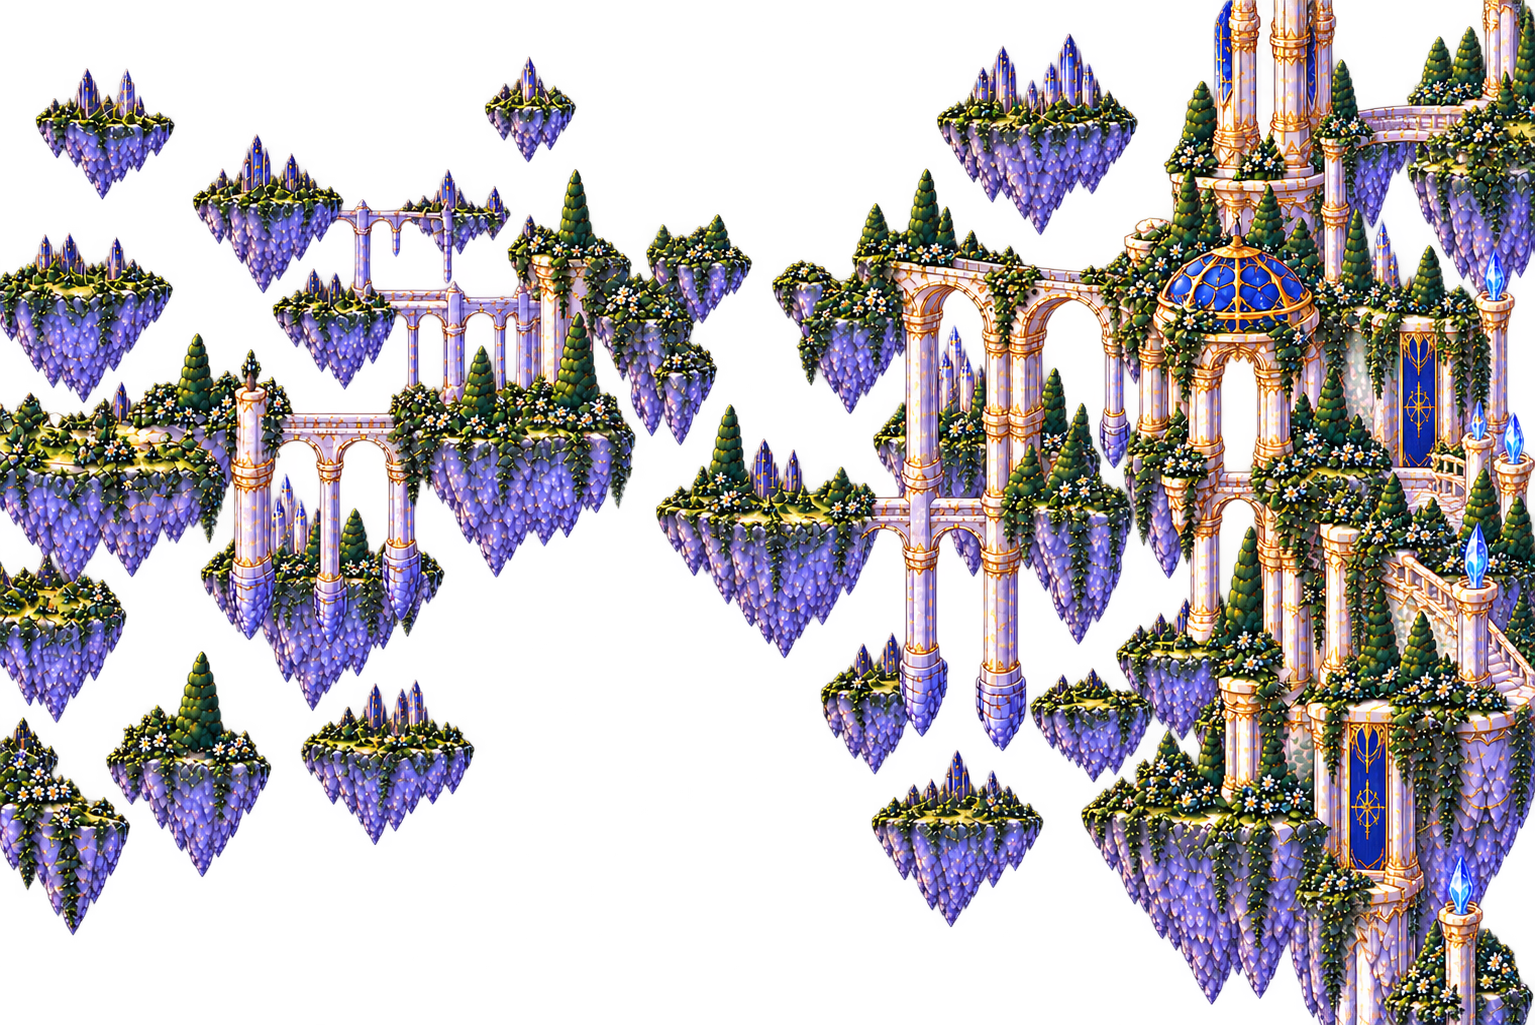
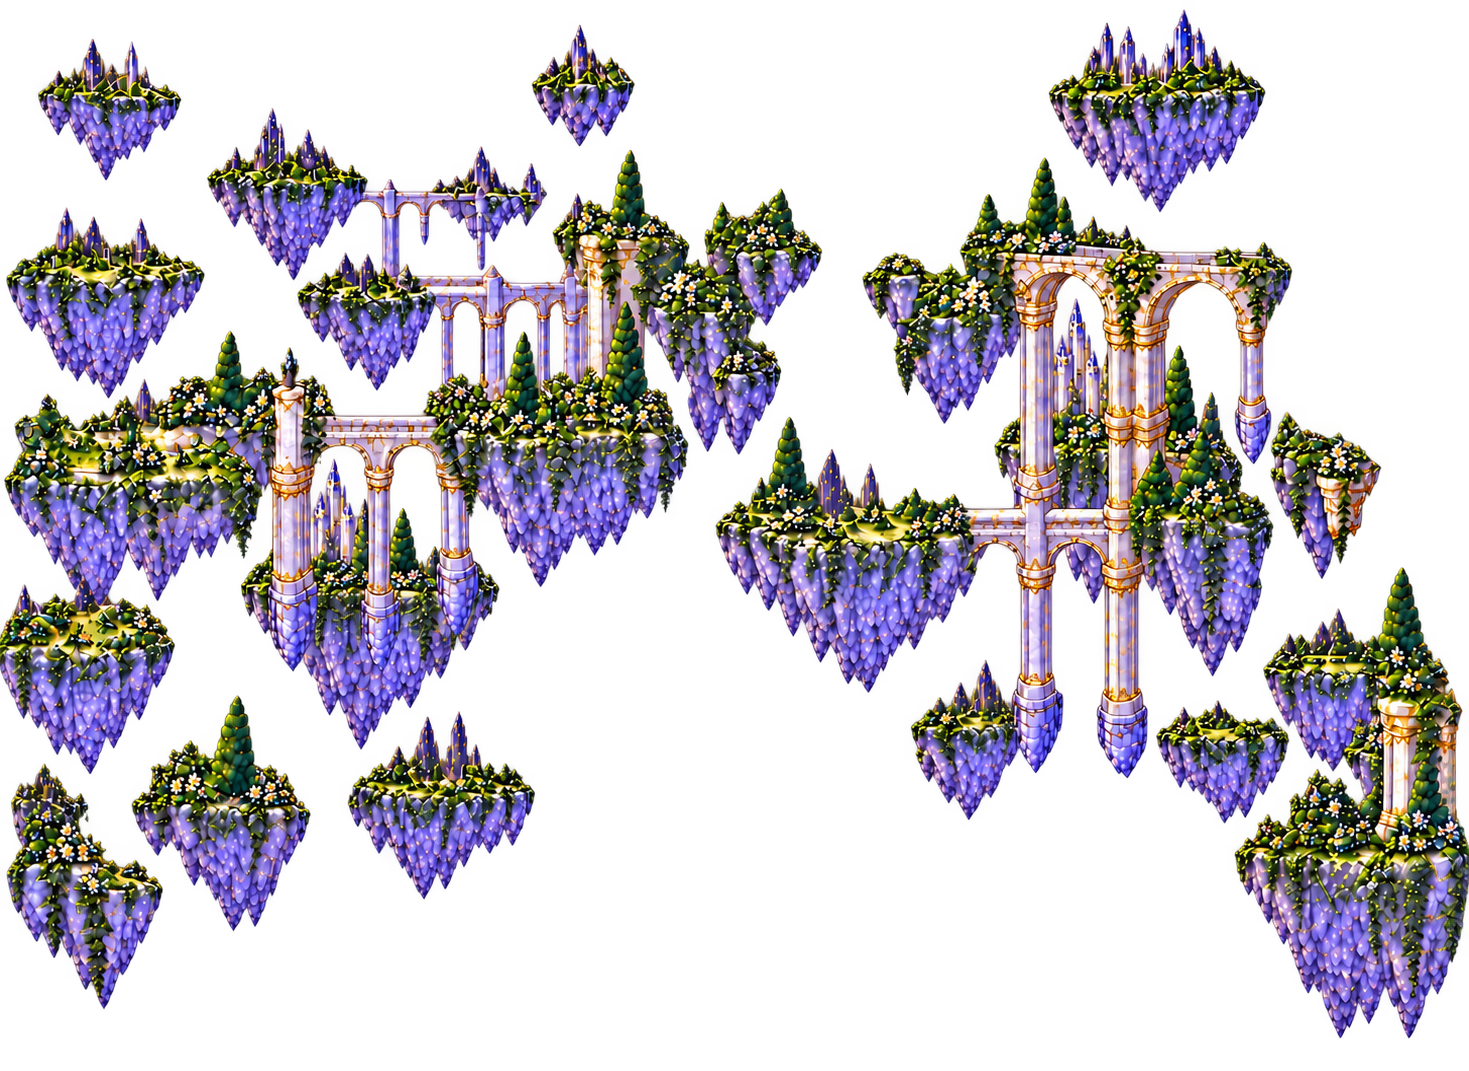
fix: align latest gate garden artwork

diff --git a/scene-preview41-fix.js b/scene-preview41-fix.js
@@ -3,27 +3,44 @@
   const layout = root.TarotSceneLayout;
   if (!layout) return;
 
-  // Preview 54 debug isolation: temporarily hide the legacy Gate Garden
-  // ground/foreground plates so the newly uploaded world-islands artwork can
-  // be checked by itself. This is intentionally temporary and does not delete
-  // any assets.
-  for (const selector of [".scene-ground", ".scene-foreground"]) {
-    const layer = document.querySelector(selector);
-    if (layer) layer.hidden = true;
-  }
+  const REFERENCE = layout.referenceSize;
+  const FOREGROUND_SOURCE_SCALE = 0.81;
 
-  // Use the current world-islands artwork exactly as supplied.
+  // The replacement island plate is 1469x1071 instead of the scene's
+  // 1448x1086 reference canvas. Fit the complete artwork by width so neither
+  // edge is cut off, preserve its aspect ratio and leave any remaining pixels
+  // transparent for the animated sky/cloud layers underneath.
   layout.paintBackground = function paintBackground(ctx, background) {
-    ctx.clearRect(0, 0, layout.referenceSize.width, layout.referenceSize.height);
-    ctx.drawImage(background, 0, 0, layout.referenceSize.width, layout.referenceSize.height);
+    const w = REFERENCE.width;
+    const h = REFERENCE.height;
+    const sourceW = background.naturalWidth || w;
+    const sourceH = background.naturalHeight || h;
+    const scale = Math.min(w / sourceW, h / sourceH);
+    const drawW = sourceW * scale;
+    const drawH = sourceH * scale;
+    const drawX = (w - drawW) / 2;
+
+    ctx.clearRect(0, 0, w, h);
+    ctx.drawImage(background, drawX, 0, drawW, drawH);
   };
 
-  // Foreground is temporarily disabled. Keep its canvas transparent as well so
-  // hidden legacy pixels cannot still mask actors through the depth compositor.
-  layout.paintForeground = function paintForeground(ctx) {
-    const w = layout.referenceSize.width;
-    const h = layout.referenceSize.height;
+  // The re-uploaded foreground contains the original scene artwork reduced to
+  // about 81%, followed by additional right-edge canvas. Restore that authored
+  // scale around the unchanged scene origin and clip once at the world edge.
+  // Drawing a second copy or an edge patch would recreate the duplicate that
+  // appeared in the previous preview, so this is deliberately one draw only.
+  layout.paintForeground = function paintForeground(ctx, foreground) {
+    const w = REFERENCE.width;
+    const h = REFERENCE.height;
+    const sourceW = foreground.naturalWidth || w * FOREGROUND_SOURCE_SCALE;
+    const sourceH = foreground.naturalHeight || h * FOREGROUND_SOURCE_SCALE;
+    const drawW = sourceW / FOREGROUND_SOURCE_SCALE;
+    const drawH = sourceH / FOREGROUND_SOURCE_SCALE;
+    const dx = layout.foregroundOffset?.x || 0;
+    const dy = layout.foregroundOffset?.y || 0;
+
     ctx.clearRect(0, 0, w, h);
+    ctx.drawImage(foreground, dx, dy, drawW, drawH);
   };
 
   // Preview 49 depth/collision fix.
@@ -115,5 +132,14 @@
   };
 
   layout.depthModelVersion = "preview-49";
-  layout.artworkModelVersion = "preview-54-front-layers-hidden";
+  layout.artworkPlacement = Object.freeze({
+    islands: Object.freeze({ mode: "contain", alignX: 0.5, alignY: 0 }),
+    foreground: Object.freeze({
+      sourceScale: FOREGROUND_SOURCE_SCALE,
+      x: dx,
+      y: dy,
+      repeat: false,
+    }),
+  });
+  layout.artworkModelVersion = "preview-55-latest-artwork-aligned";
 })(window);

diff --git a/index.html b/index.html
@@ -24,7 +24,7 @@
       <img
         id="map-layer"
         class="map-layer scene-map-base"
-        src="./assets/maps/star-country-world-islands.webp?v=709636739e8bdfda"
+        src="./assets/maps/star-country-world-islands.webp?v=cbf8ee11e9e9d968"
         alt=""
         aria-hidden="true"
         draggable="false"
@@ -64,7 +64,7 @@
       </div>
 
       <div class="scene-world-layer scene-back scene-foreground" data-scene-world aria-hidden="true">
-        <img crossorigin="anonymous" hidden src="./assets/maps/star-country-gate-garden-foreground.webp" alt="" draggable="false" />
+        <img crossorigin="anonymous" hidden src="./assets/maps/star-country-gate-garden-foreground.webp?v=bffada4ffedbc317" alt="" draggable="false" />
       <canvas width="1448" height="1086"></canvas></div>
       <!-- Preview 41+: the authored map gate is visible. The separate high-detail
            gate stays hidden and is retained only as a mask reference. -->
@@ -225,10 +225,10 @@
     <script src="./lumiere-outline.js?v=0.7.1" defer></script>
     <script src="./dialogue.js?v=1.0.0" defer></script>
     <script src="./scene-layout.js?v=1.2.0" defer></script>
-    <script src="./scene-preview41-fix.js?v=1.3.0" defer></script>
+    <script src="./scene-preview41-fix.js?v=1.4.0" defer></script>
     <script src="./scene-effects.js?v=1.1.0" defer></script>
     <script
-      src="./game.js?v=1.2.0"
+      src="./game.js?v=1.3.0"
       data-shiopon-base="https://raw.githubusercontent.com/reverse-shion/tarot-breaker-game/main/assets/sprites/shiopon/"
       data-lumiere-base="https://raw.githubusercontent.com/reverse-shion/tarot-breaker-game/main/assets/sprites/lumiere/"
       defer

diff --git a/game.js b/game.js
@@ -1581,6 +1581,8 @@
       shioponFollowMinGap: SHIOPON_FOLLOW_MIN_GAP,
       lumiereCollisionDistance: LUMIERE_COLLISION_DISTANCE,
       lumiereGap: refDistance(playerRef(), lumiereRef()),
+      world: { ...world },
+      scale: { ...scale },
       camera: { ...camera },
       origin: viewportOrigin(),
       cssWidth,
@@ -1863,8 +1865,16 @@
       ]);
 
       const loadedMap = loaded[0];
-      world = { w: loadedMap.naturalWidth, h: loadedMap.naturalHeight };
-      scale = { x: world.w / REF.w, y: world.h / REF.h };
+      if (!loadedMap.naturalWidth || !loadedMap.naturalHeight)
+        throw new Error("背景画像サイズを取得できません");
+
+      // Artwork files may be replaced with a larger source canvas, but game
+      // coordinates, collision data and every authored scene layer share the
+      // fixed 1448x1086 reference space. Keeping the world canonical prevents
+      // a replacement image's aspect ratio from stretching actors or shifting
+      // interaction points. Each raster layer handles its own visual fit.
+      world = { w: REF.w, h: REF.h };
+      scale = { x: 1, y: 1 };
 
       for (const dir of ["down", "up", "left", "right"]) {
         if (
